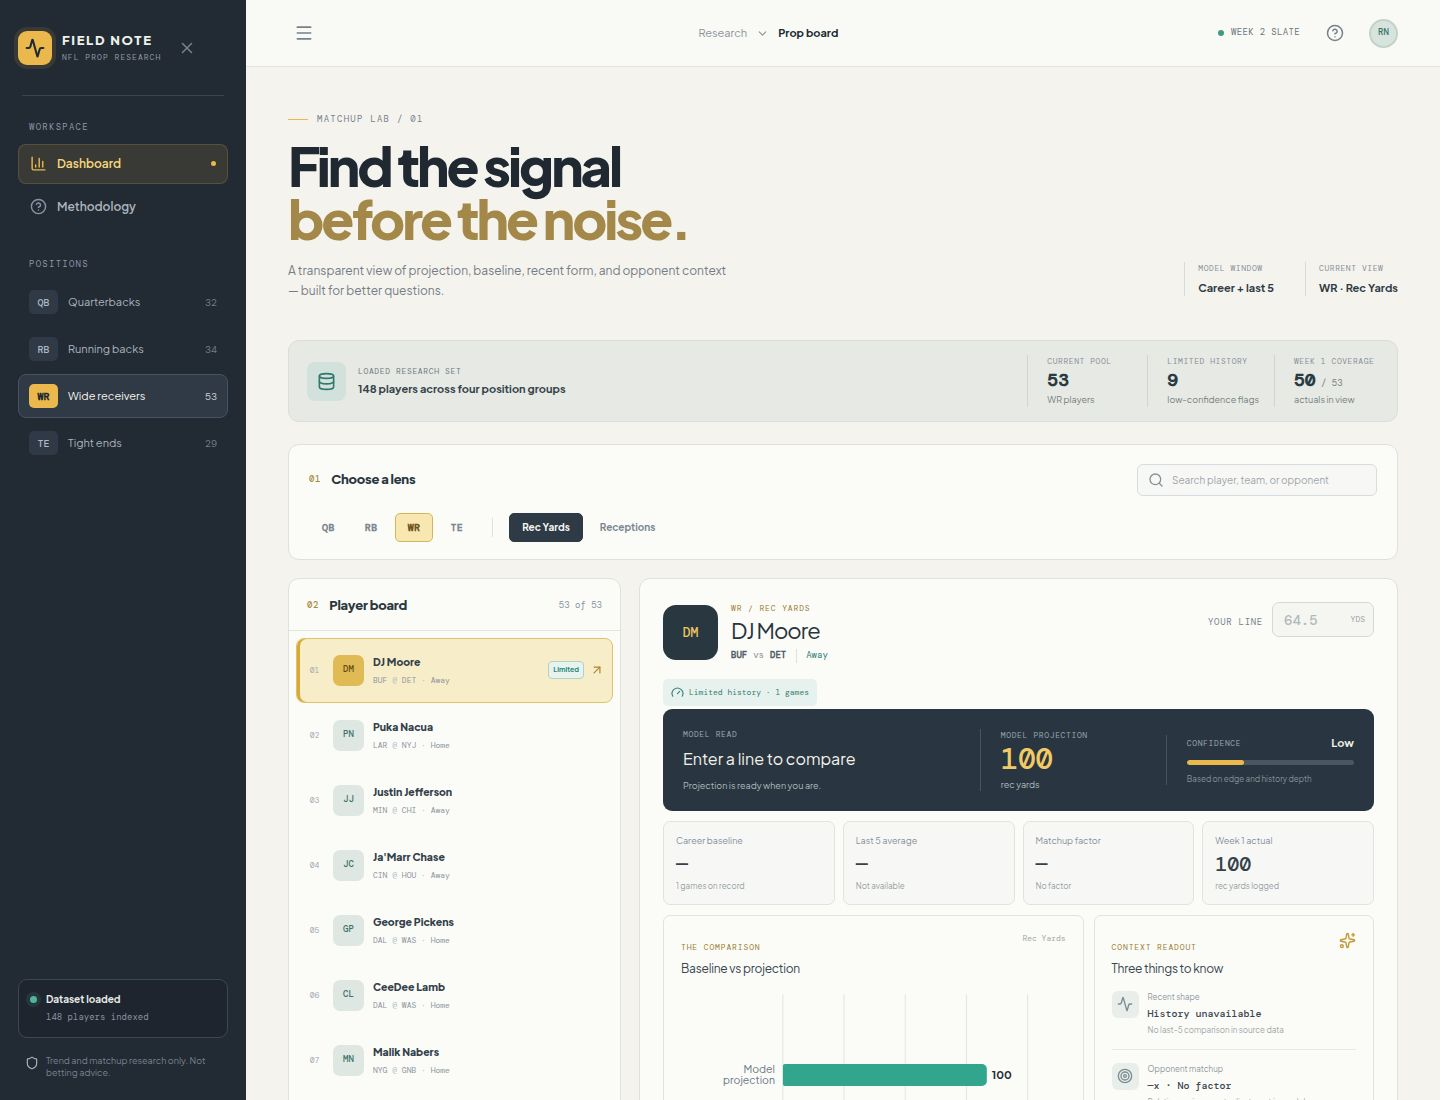
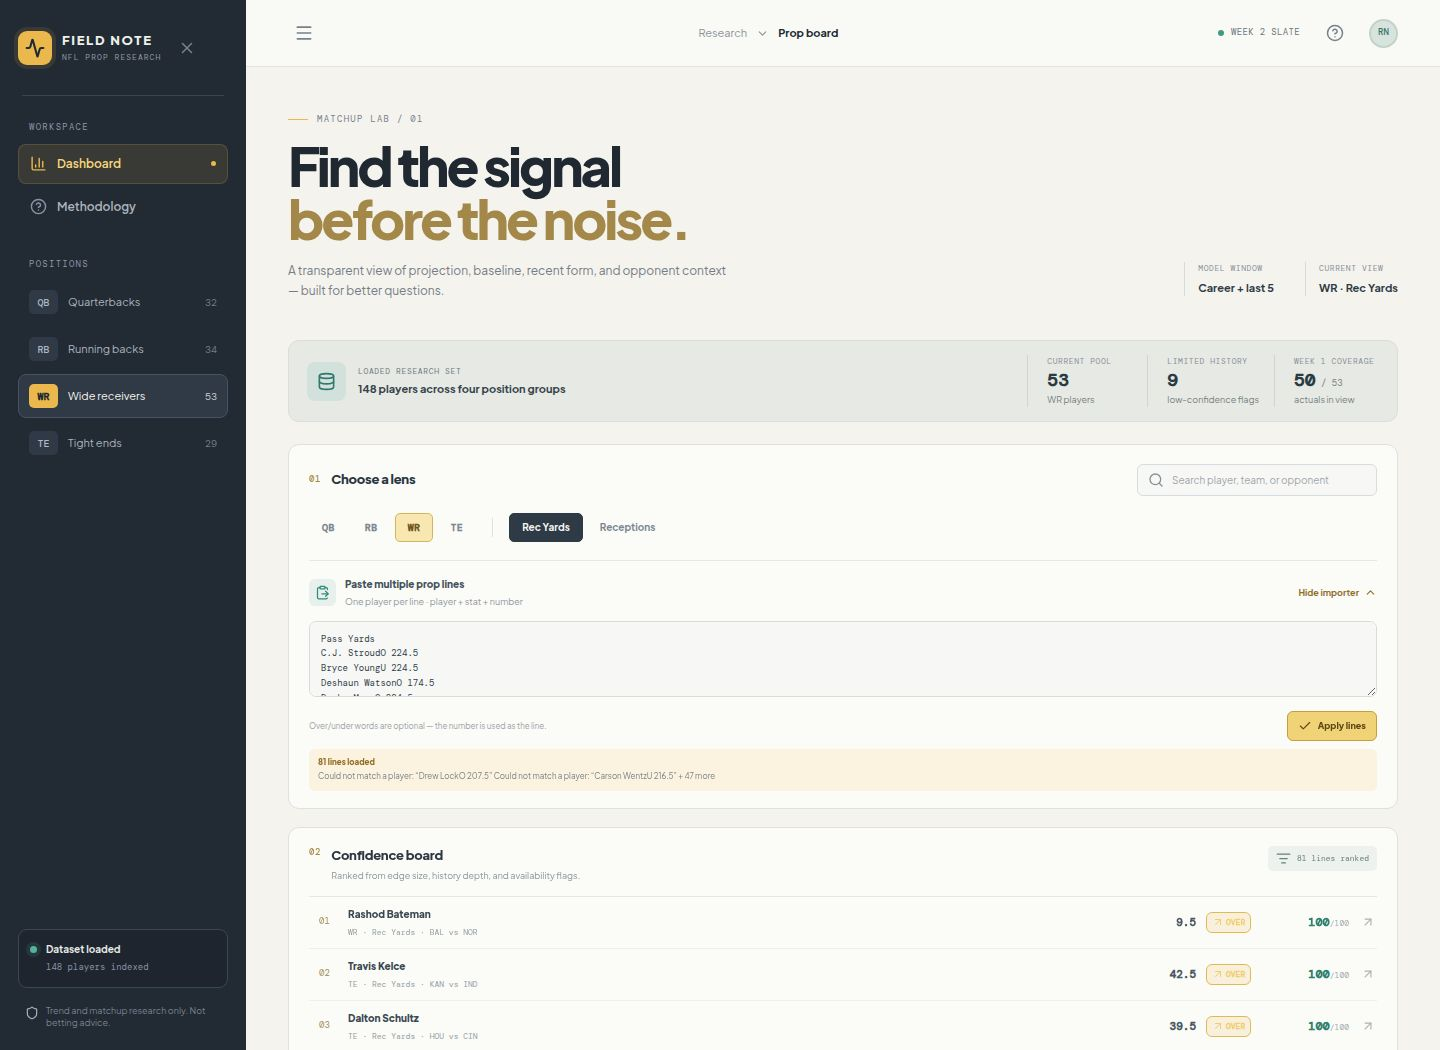
Implement initial prop line data and dashboard rendering logic
Replit-Commit-Author: Agent

diff --git a/artifacts/nfl-prop-dashboard/src/App.tsx b/artifacts/nfl-prop-dashboard/src/App.tsx
@@ -1,5 +1,6 @@
 import { useMemo, useState } from 'react';
 import sourceText from '@assets/0_prop_matchup_dashboard_(1)_1789679044969.jsx?raw';
+import { INITIAL_PROP_LINES } from '@/data/initial-prop-lines';
 import {
   Activity,
   AlertTriangle,
@@ -149,19 +150,25 @@ function leanFromLine(stat: StatSnapshot | undefined, line: string) {
 }
 
 function normalized(value: string) {
-  return value.toLowerCase().replace(/[^a-z0-9]+/g, ' ').trim();
+  return value
+    .toLowerCase()
+    .replace(/[.'’]/g, '')
+    .replace(/\b(jr|sr|ii|iii|iv)\b/g, '')
+    .replace(/[^a-z0-9]+/g, ' ')
+    .replace(/\s+/g, ' ')
+    .trim();
 }
 
 function statKeyFromText(value: string, position?: Position) {
   const availableStats = position ? STAT_TYPES[position] : Object.values(STAT_TYPES).flat();
+  const normalizedValue = normalized(value);
   return availableStats
-    .slice()
-    .sort((a, b) => b.label.length - a.label.length)
-    .find((stat) =>
-      [stat.key, stat.label, ...(STAT_ALIASES[stat.key] ?? [])].some((alias) =>
-        normalized(value).includes(normalized(alias)),
-      ),
-    )?.key;
+    .flatMap((stat) =>
+      [stat.key, stat.label, ...(STAT_ALIASES[stat.key] ?? [])]
+        .map((alias) => ({ key: stat.key, alias: normalized(alias) }))
+        .filter(({ alias }) => alias && normalizedValue.includes(alias)),
+    )
+    .sort((a, b) => b.alias.length - a.alias.length)[0]?.key;
 }
 
 function getConfidence(player: Player, stat: StatSnapshot, line: string) {
@@ -190,6 +197,7 @@ function parseBulkLines(input: string) {
   );
   const accepted: { key: string; line: string }[] = [];
   const errors: string[] = [];
+  let currentStatKey: string | undefined;
 
   input
     .split(/\r?\n|;/)
@@ -200,8 +208,17 @@ function parseBulkLines(input: string) {
       const match = allPlayers
         .slice()
         .sort((a, b) => b.player.name.length - a.player.name.length)
-        .find(({ player }) => normalizedEntry.includes(normalized(player.name)));
-      const statKey = match ? statKeyFromText(entry, match.position) : undefined;
+        .find(({ player }) => {
+          const playerName = normalized(player.name);
+          return normalizedEntry.includes(playerName) ||
+            normalizedEntry.replace(/\s/g, '').includes(playerName.replace(/\s/g, ''));
+        });
+      const headingStatKey = statKeyFromText(entry);
+      if (!match && headingStatKey && /yards|receptions|reception/i.test(entry)) {
+        currentStatKey = headingStatKey;
+        return;
+      }
+      const statKey = match ? statKeyFromText(entry, match.position) ?? currentStatKey : undefined;
       const numbers = entry.match(/-?\d+(?:\.\d+)?/g);
       const line = numbers?.at(-1);
 
@@ -246,11 +263,17 @@ function AppShell() {
     PLAYER_DATA.WR?.[0]?.name ?? null,
   );
   const [search, setSearch] = useState('');
-  const [lines, setLines] = useState<Record<string, string>>({});
+  const initialImport = useMemo(() => parseBulkLines(INITIAL_PROP_LINES), []);
+  const [lines, setLines] = useState<Record<string, string>>(() =>
+    Object.fromEntries(initialImport.accepted.map((item) => [item.key, item.line])),
+  );
   const [mobileNavOpen, setMobileNavOpen] = useState(false);
-  const [bulkLines, setBulkLines] = useState('');
+  const [bulkLines, setBulkLines] = useState(INITIAL_PROP_LINES);
   const [bulkOpen, setBulkOpen] = useState(true);
-  const [importFeedback, setImportFeedback] = useState<{ accepted: number; errors: string[] } | null>(null);
+  const [importFeedback, setImportFeedback] = useState<{ accepted: number; errors: string[] } | null>(() => ({
+    accepted: initialImport.accepted.length,
+    errors: initialImport.errors,
+  }));
 
   const players = PLAYER_DATA[position] ?? [];
   const filteredPlayers = useMemo(() => {

diff --git a/artifacts/nfl-prop-dashboard/src/data/initial-prop-lines.ts b/artifacts/nfl-prop-dashboard/src/data/initial-prop-lines.ts
@@ -1,0 +1,135 @@
+export const INITIAL_PROP_LINES = `Pass Yards
+C.J. StroudO 224.5
+Bryce YoungU 224.5
+Deshaun WatsonO 174.5
+Drake MayeO 224.5
+Malik WillisO 184.5
+Kirk CousinsU 199.5
+Josh AllenU 249.5
+Patrick Mahomes IIO 224.5
+Jordan LoveU 249.5
+Jaxson DartU 213.5
+Joe BurrowU 249.5
+Daniel JonesU 224.5
+Brock PurdyO 238.5
+Trevor LawrenceU 224.5
+Jalen HurtsO 206.5
+Caleb WilliamsU 224.5
+Jayden DanielsO 217.5
+Baker MayfieldO 210.5
+Dak PrescottO 266.5
+Cam WardU 188.5
+Drew LockO 207.5
+Aaron RodgersU 207.5
+Matthew StaffordO 245.5
+Carson WentzU 216.5
+Lamar JacksonU 213.5
+
+Receiving Yards
+Rashod BatemanO 9.5
+Tre' HarrisO 9.5
+Jalen McMillanO 9.5
+Alec PierceO 45.5
+Kyle Pitts Sr.O 32.5
+Malik NabersU 65.5
+George PickensO 64.5
+Jauan JenningsO 19.5 / O 20.5
+Colby ParkinsonO 9.5
+Chris Godwin Jr.U 47.5
+David NjokuO 9.5
+Darnell MooneyO 9.5
+Harold Fannin Jr.O 29.5
+Jack BechU 24.5
+Calvin RidleyO 17.5
+Terrance FergusonO 9.5
+Makai LemonO 22.5
+Malik WashingtonU 33.5
+Roman WilsonU 24.5
+Tyquan ThorntonO 14.5
+Jahan DotsonU 22.5
+Ryan FlournoyU 30.5
+Pat BryantU 30.5
+Bryce LanceU 20.5
+Isaiah WilliamsU 13.5
+Drake LondonO 59.5
+Jalen CokerU 50.5
+Jake FergusonO 26.5
+Michael Pittman Jr.O 34.5
+Adonai MitchellU 33.5
+Jerry JeudyO 29.5
+Justin JeffersonU 79.5
+Jaylin NoelU 25.5
+Tommy TrembleU 14.5
+Dalton SchultzU 39.5
+Erick All Jr.O 2.5
+Matthew GoldenU 49.5
+DeVonta SmithO 59.5
+Marvin Harrison Jr.O 34.5
+DeMario DouglasU 34.5
+Bucky IrvingO 14.5
+Tyjae SpearsU 16.5
+Juwan JohnsonO 37.5
+Ted Hurst IIIO 9.5
+Jameson WilliamsU 57.5
+Isaiah LikelyU 44.5
+Cooper KuppO 23.5
+Darren WallerO 17.5
+Ashton JeantyU 24.5
+Jaylen WarrenU 19.5
+Rashee RiceO 54.5
+Mike EvansO 49.5
+Chris BellO 21.5
+Rashid ShaheedO 24.5
+Dallas GoedertO 39.5
+Devaughn VeleU 39.5
+Tee HigginsU 55.5
+T.J. HockensonU 27.5
+Amon-Ra St. BrownU 79.5
+Josh DownsU 39.5
+Omarion HamptonO 11.5
+AJ BarnerO 20.5
+Deebo Samuel Sr.O 35.5
+Greg DulcichO 24.5
+Christian McCaffreyU 39.5
+George HolaniU 9.5
+Travis KelceO 42.5
+Denzel BostonO 31.5
+Brian Thomas Jr.O 34.5
+Evan EngramU 23.5
+KC Concepcion Jr.O 31.5
+Hunter HenryO 39.5
+
+Rushing Yards
+Emari DemercadoO 10.5
+Kenneth Walker IIIU 79.5
+Cam SkatteboO 49.5
+Jonathan TaylorU 86.5
+Bhayshul TutenU 49.5
+Tyler AllgeierU 35.5
+Deshaun WatsonU 22.5
+Jahmyr GibbsO 89.5
+Bijan RobinsonO 80.5
+Keaton MitchellU 29.5
+Quinshon JudkinsO 49.5
+Jeremiyah LoveO 39.5
+George HolaniU 34.5
+Devin SingletaryU 19.5
+Brian Robinson Jr.O 23.5
+RJ HarveyU 27.5
+Jacoby BrissettO 5.5
+Kyren WilliamsO 61.5
+De'Von AchaneO 59.5
+Kendre MillerU 19.5
+Rhamondre StevensonU 49.5
+Kaelon BlackU 39.5
+Woody MarksO 26.5
+Drew LockO 6.5
+Malik WillisU 35.5
+Tony PollardO 44.5
+Justice HillU 13.5
+Alvin KamaraU 18.5
+Christian McCaffreyO 59.5
+Caleb WilliamsU 24.5
+J.K. DobbinsU 59.5
+Bucky IrvingU 58.5
+Raheim SandersO 4.5`;

diff --git a/.agents/memory/prop-line-parser.md b/.agents/memory/prop-line-parser.md
@@ -1,0 +1,10 @@
+---
+name: Prop line parsing
+description: Durable rules for interpreting pasted sportsbook player and stat lines.
+---
+
+Specific stat phrases must take precedence over short aliases when parsing pasted prop lines. For example, “receiving yards” must resolve to receiving yards rather than the shorter “rec” alias for receptions.
+
+**Why:** Short aliases are useful for flexible user input, but substring matching can otherwise classify a precise section heading or stat phrase incorrectly.
+
+**How to apply:** When adding or changing aliases, rank matching candidates by specificity or otherwise protect exact/longer matches before checking abbreviated aliases.

diff --git a/.agents/memory/MEMORY.md b/.agents/memory/MEMORY.md
@@ -1,0 +1,1 @@
+- [Prop line parsing](prop-line-parser.md) — prefer the longest matching stat alias so specific phrases like “receiving yards” beat short aliases such as “rec”.
